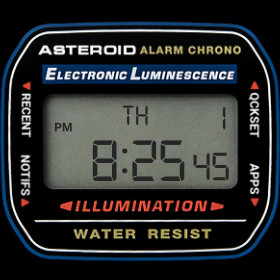
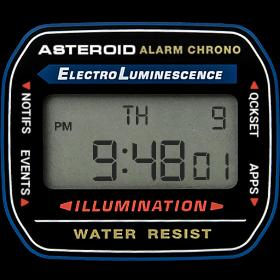
Fixed retro-lcd to work with new unit selector, changed wallpaper to match new additions to asteroid's launcher, and added "renderTarget" like kido told me to do a while ago.

diff --git a/retro-lcd/usr/share/asteroid-launcher/watchfaces/retro-lcd.qml b/retro-lcd/usr/share/asteroid-launcher/watchfaces/retro-lcd.qml
@@ -6,12 +6,12 @@ Canvas {
     contextType: "2d"
     antialiasing: true
     smooth: true
+    renderTarget: Canvas.FramebufferObject
 
     onPaint: {
         var ctx = getContext("2d");
         ctx.reset();
         ctx.fillStyle = "#252525";
-        ctx.textAlign = "right";
         ctx.textBaseline = 'middle';
         var centerX = rootitem.width * 0.5;
         var centerY = rootitem.height * 0.5;
@@ -21,7 +21,6 @@ Canvas {
 		var ourSecs = wallClock.time.getSeconds();
 		var ourDOW = Qt.formatDate(wallClock.time, "ddd").substr(0, 2);
 		var ourDay = Qt.formatDate(wallClock.time, "dd").substr(0, 2).replace("0", " ");
-		var amPm = "AM";
 		
 		function fontSizeCalc(ourSize) {
 			var ratio = ourSize / 280;
@@ -29,17 +28,22 @@ Canvas {
 			return size|0;
 		}
 		
-		if (ourTime >= 12) {
-			amPm = "PM";
-			ourTime -= 12;
-		}
+		if (use12H.value) {
+			if (ourTime >= 12) {
+				ourTime -= 12;
+				ctx.textAlign = "center";
+				ctx.font = "bold " + fontSizeCalc(12) + "px " + "Roboto";
+				ctx.fillText("PM", centerX - (centerX * 0.55), centerY - (centerY * 0.09));
+			}
 
-		if (ourTime == 0) ourTime = 12;
+			if (ourTime == 0) ourTime = 12;
+		}
 		
 		if (ourMins < 10) ourMins = "0" + ourMins;
 		if (ourSecs < 10) ourSecs = "0" + ourSecs;
 		
         var fontFamily = "'Digital-7 Mono'";
+        ctx.textAlign = "right";
         ctx.font = "50 " + fontSizeCalc(62) + "px " + fontFamily;
         ctx.fillText(ourTime, centerX - (centerX * 0.153), centerY + (centerY * 0.05));
         
@@ -58,12 +62,6 @@ Canvas {
         ctx.textAlign = "center";
         ctx.font = "50 " + fontSizeCalc(46) + "px " + "Roboto";
         ctx.fillText(":", centerX - (centerX * 0.113), centerY + (centerY * 0.15));
-        
-        if (amPm == "PM") {
-			ctx.textAlign = "center";
-			ctx.font = "bold " + fontSizeCalc(12) + "px " + "Roboto";
-			ctx.fillText(amPm, centerX - (centerX * 0.55), centerY - (centerY * 0.09));
-		}
     }
      
     Connections {
